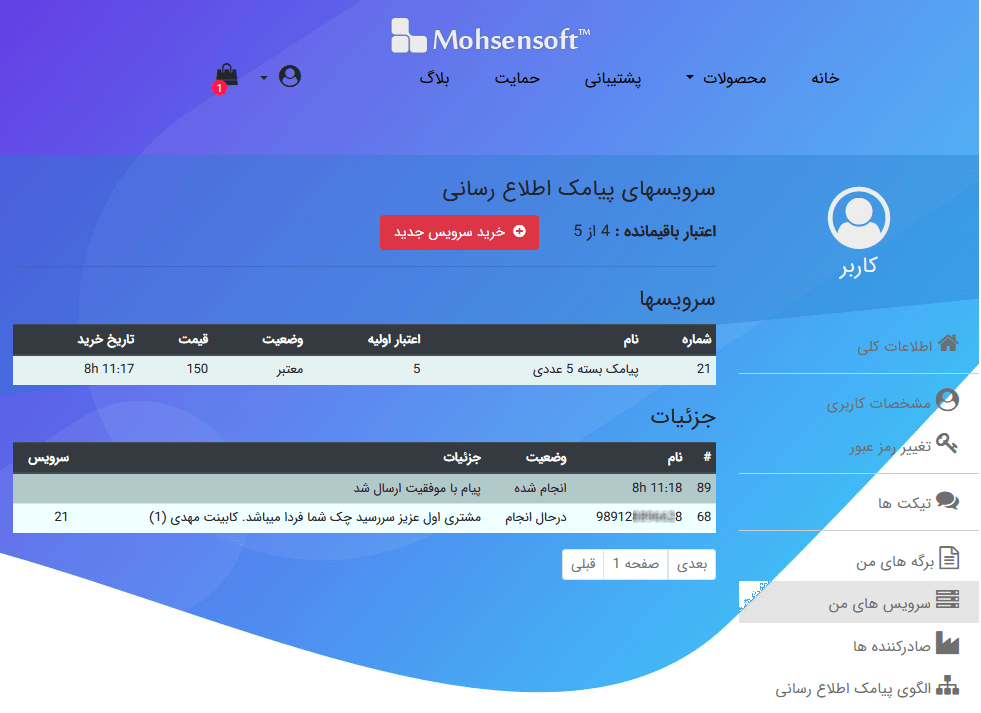
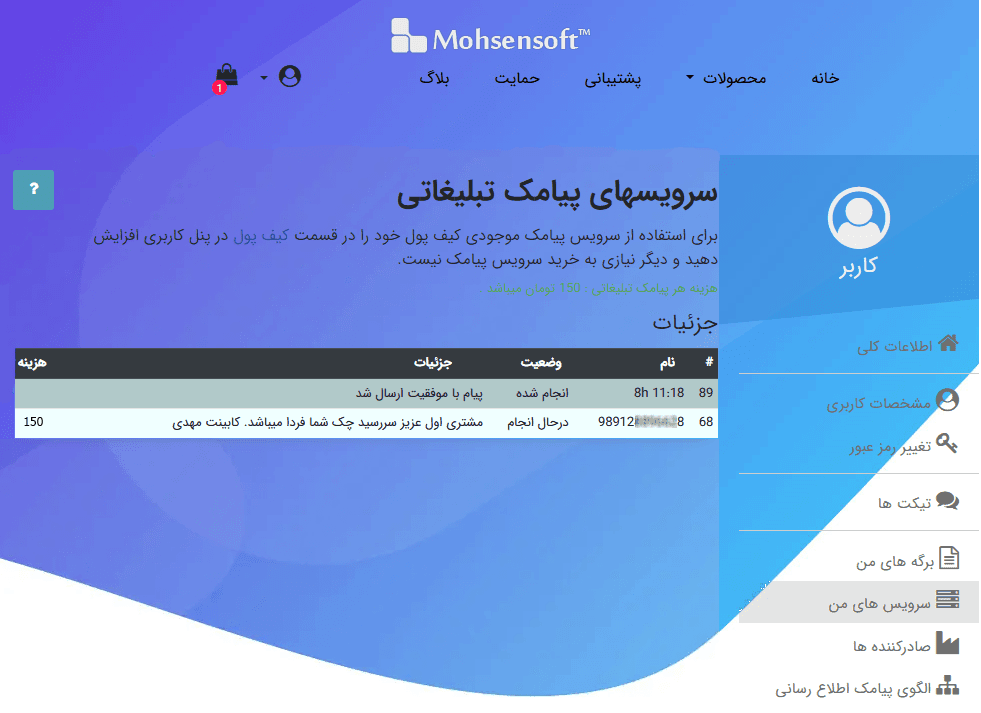
update sms service by wallet

diff --git a/docs/source/conf.py b/docs/source/conf.py
@@ -24,7 +24,7 @@ copyright = '2024, Mohsensoft'
 author = 'Mohsen Bahraminejad, Mohammad reza khalifeh'
 
 # The short X.Y version
-version = '4.7'
+version = '4.71'
 # The full version, including alpha/beta/rc tags
 release = '.rst'
 

diff --git a/docs/source/service-sms.rst b/docs/source/service-sms.rst
@@ -9,7 +9,11 @@
 
 در نرم افزار فاکتور قابلیتی قرار داده شده است که بتوانید براحتی و بصورت پیشرفته انواع پیامک های تبلیغاتی و اطلاع رسانی ارسال نمایید.
 
-برای ارسال پیامک در نرم افزار فاکتور دو روش وجود دارد، 1. استفاده از سرویس پیامک نرم افزاری محسن و 2. استفاده از سرویس پیامک سایر شرکت ها بصورت مستقیم.
+برای ارسال پیامک در نرم افزار فاکتور دو روش وجود دارد:
+
+* 1. استفاده از سرویس پیامک نرم افزاری محسن.
+* 2. استفاده از سرویس پیامک سایر شرکت ها بصورت مستقیم.
+
 این دو حالت را میتوانید از طریق قست :ref:`تنظیمات سرویس پیامک<setting-sms>` تغییر دهید.
 
 در حالت اول بعلت محدودیت های اوپراتورها در محتوای پیامک و بوجود آمدن مسئولیت برای "ارسال لینک، شماره تماس و شماره کارت" محدودیت هایی وجود دارد و برای استفاده از این محدودیت ها میتوانید از روش دوم استفاده نمایید.
@@ -187,9 +191,9 @@
 ===================
 اگر از سرویس اختصاصی پیامک استفاده میکنید برای خرید بسته میبایست به سایت خدمات دهنده انتخابیتان مراجعه نمایید و دیگر نیازی به خرید بسته در سایت نرم افزاری محسن نیست.
 
-اگر از سرویس پیامک نرم افزاری محسن استفاده میکنید به علت هزینه بر بودن ارسال پیامک میبایست قبل از ارسال، حساب کاربری خود را شارژ نمایید . برای این منظور بسته های مختلفی برای ارسال پیامک در سایت وجود دارد که بنا به نیاز خود میتوانید آنها را تهیه نمایید. ما سعی کرده ایم کمترین تعرفه پیامک را برای شما ارائه دهیم.
+اگر از سرویس پیامک نرم افزاری محسن استفاده میکنید به علت هزینه بر بودن ارسال پیامک میبایست قبل از ارسال، کیف پول حساب کاربری خود را شارژ نمایید .ما سعی کرده ایم کمترین تعرفه پیامک را برای شما ارائه دهیم.
 
-برای این کار کافیست به قسمت `سرویسها`_ در سایت مراجعه نمایید.
+برای این کار کافیست به قسمت `کیف پول`_ در سایت مراجعه نمایید.
 
 
 
@@ -200,21 +204,20 @@
 
 مدیریت سرویس و ارسال ها
 =============================
-برای مشاهده جزئیات پیامهای ارسال شده ، باقیمانده اعتبار و خرید بسته جدید میتوانید وارد `قسمت سرویس از پروفایل`_ خود شوید و نوع سرویس را انتخاب کنید تا جزئیات آن بصورت زیر به نمایش درآید:
+برای مشاهده جزئیات پیامهای ارسال شده و باقیمانده اعتبار میتوانید وارد `قسمت سرویس از پروفایل`_ خود شوید و نوع سرویس را انتخاب کنید تا جزئیات آن بصورت زیر به نمایش درآید:
 
 
 .. image:: images/service_sms_page_manage.png
     :alt:  مدیریت سرویس ها
     :align: center
 
-در این صفحه در بخش بالا اعتبار باقیمانده و بعد از آن سرویسهای تهیه شده شما به همراه اعتبار اولیه و وضعیت معتبر بودن آن نمایش داده میشود و در قسمت پایین ریز پیامهای ارسال شده نمایش داده میشوند.
-
+در این صفحه ریز پیامهای ارسال شده نمایش داده میشوند.
 در قسمت جزیات سطرهای تیره تر نمایانگر هر درخواست هستند که ممکن است در آن درخواست مانند پیامکهای تبلیغاتی چندین شماره زیر مجموعه با سطر روشنتر باشد.
 
-در سطرهای روشن نیز شماره گیرنده بهمراه وضعیت، متن پیام بهمراه اندازه پیام در داخل پرانتز و در آخر شماره سرویسی که از آن استفاده شده است نمایش داده میشود.
+در سطرهای روشن نیز شماره گیرنده بهمراه وضعیت و متن پیام و در آخر نیز هزینه آن پیام نمایش داده میشود.
 
 .. _قسمت سرویس از پروفایل: https://mohsensoft.com/account/services
 .. _قسمت صادر کننده از پروفایل: https://mohsensoft.com/account/servicesuserdata/company
 .. _قسمت الگوی پیامک اطلاع رسانی از پروفایل: https://mohsensoft.com/account/servicesuserdata/smstemplate
-.. _سرویسها: https://mohsensoft.com/service
+.. _کیف پول: https://mohsensoft.com/account/wallet
 .. _صفحه بررسی وضعیت بلک لیست : https://mohsensoft.com/service/sms/checkblacklist
